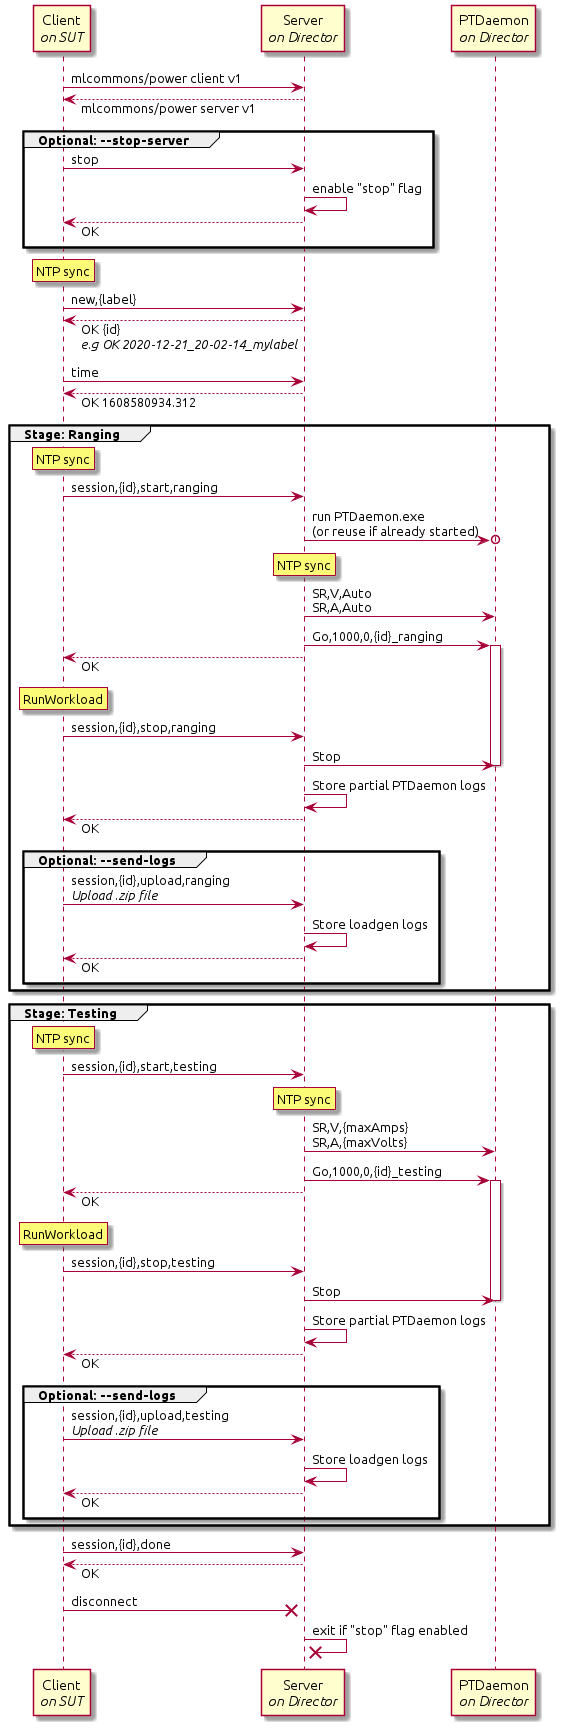
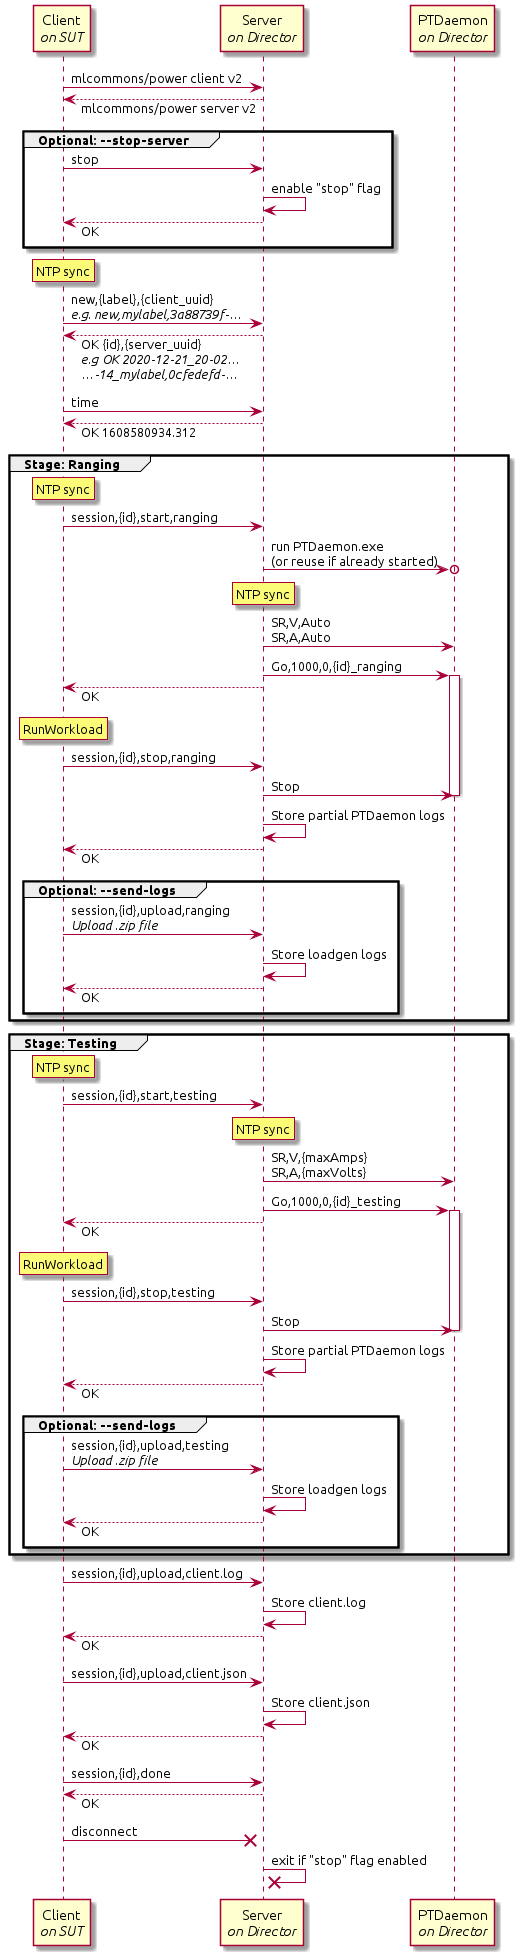
Update docs according to #117, #119

Changed region(s): [[0.0, 0.0, 1.0, 1.0], [0.7678, 0.0, 0.9827, 0.0938]]

diff --git a/ptd_client_server/README.md b/ptd_client_server/README.md
@@ -288,18 +288,24 @@ After a successful run, you'll see these new files and directories on the server
 ```
 D:\ptd-logs
 ├── … (old entries skipped)
-├── 2020-12-28_15-20-52_mylabel_ranging
-│   ├── spl.txt                           ← power log
-│   ├── mlperf_log_accuracy.json        ┐
-│   ├── mlperf_log_detail.txt           │ ← loadgen log (if --send-logs is used)
-│   ├── mlperf_log_summary.txt          │
-│   └── mlperf_log_trace.json           ┘
-└── 2020-12-28_15-20-52_mylabel_testing
-    ├── spl.txt                           ← power log
-    ├── mlperf_log_accuracy.json        ┐
-    ├── mlperf_log_detail.txt           │ ← loadgen log (if --send-logs is used)
-    ├── mlperf_log_summary.txt          │
-    └── mlperf_log_trace.json           ┘
+└── 2020-12-28_15-20-52_mylabel
+    ├── client.json                      ← client summary
+    ├── client.log                       ← client stdout log
+    ├── ptd_logs.txt                     ← ptdaemon stdout log
+    ├── ranging
+    │   ├── mlperf_log_accuracy.json   ┐ ← loadgen log, if --send-logs is used.
+    │   ├── mlperf_log_detail.txt      │   Produced by the workload script on
+    │   ├── mlperf_log_summary.txt     │   the client.
+    │   ├── mlperf_log_trace.json      ┘
+    │   └── spl.txt                      ← power log
+    ├── server.json                      ← server summary
+    ├── server.log                       ← server stdout log
+    └── testing
+        ├── mlperf_log_accuracy.json   ┐
+        ├── mlperf_log_detail.txt      │ ← loadgen log (same as above)
+        ├── mlperf_log_summary.txt     │
+        ├── mlperf_log_trace.json      ┘
+        └── spl.txt                      ← power log
 ```
 
 And these on the SUT:
@@ -307,16 +313,19 @@ And these on the SUT:
 ```
 ./client-output-directory
 ├── … (old entries skipped)
-├── 2020-12-28_15-20-52_mylabel_ranging
-│   ├── mlperf_log_accuracy.json
-│   ├── mlperf_log_detail.txt
-│   ├── mlperf_log_summary.txt
-│   └── mlperf_log_trace.json
-└── 2020-12-28_15-20-52_mylabel_testing
-    ├── mlperf_log_accuracy.json
-    ├── mlperf_log_detail.txt
-    ├── mlperf_log_summary.txt
-    └── mlperf_log_trace.json
+└── 2020-12-28_15-20-52_mylabel_ranging
+    ├── client.json
+    ├── client.log
+    ├── ranging
+    │   ├── mlperf_log_accuracy.json   ┐
+    │   ├── mlperf_log_detail.txt      │ ← loadgen log
+    │   ├── mlperf_log_summary.txt     │
+    │   └── mlperf_log_trace.json      ┘
+    └── testing
+        ├── mlperf_log_accuracy.json   ┐
+        ├── mlperf_log_detail.txt      │ ← loadgen log
+        ├── mlperf_log_summary.txt     │
+        └── mlperf_log_trace.json      ┘
 ```
 
 `spl.txt` consists of the following lines:
